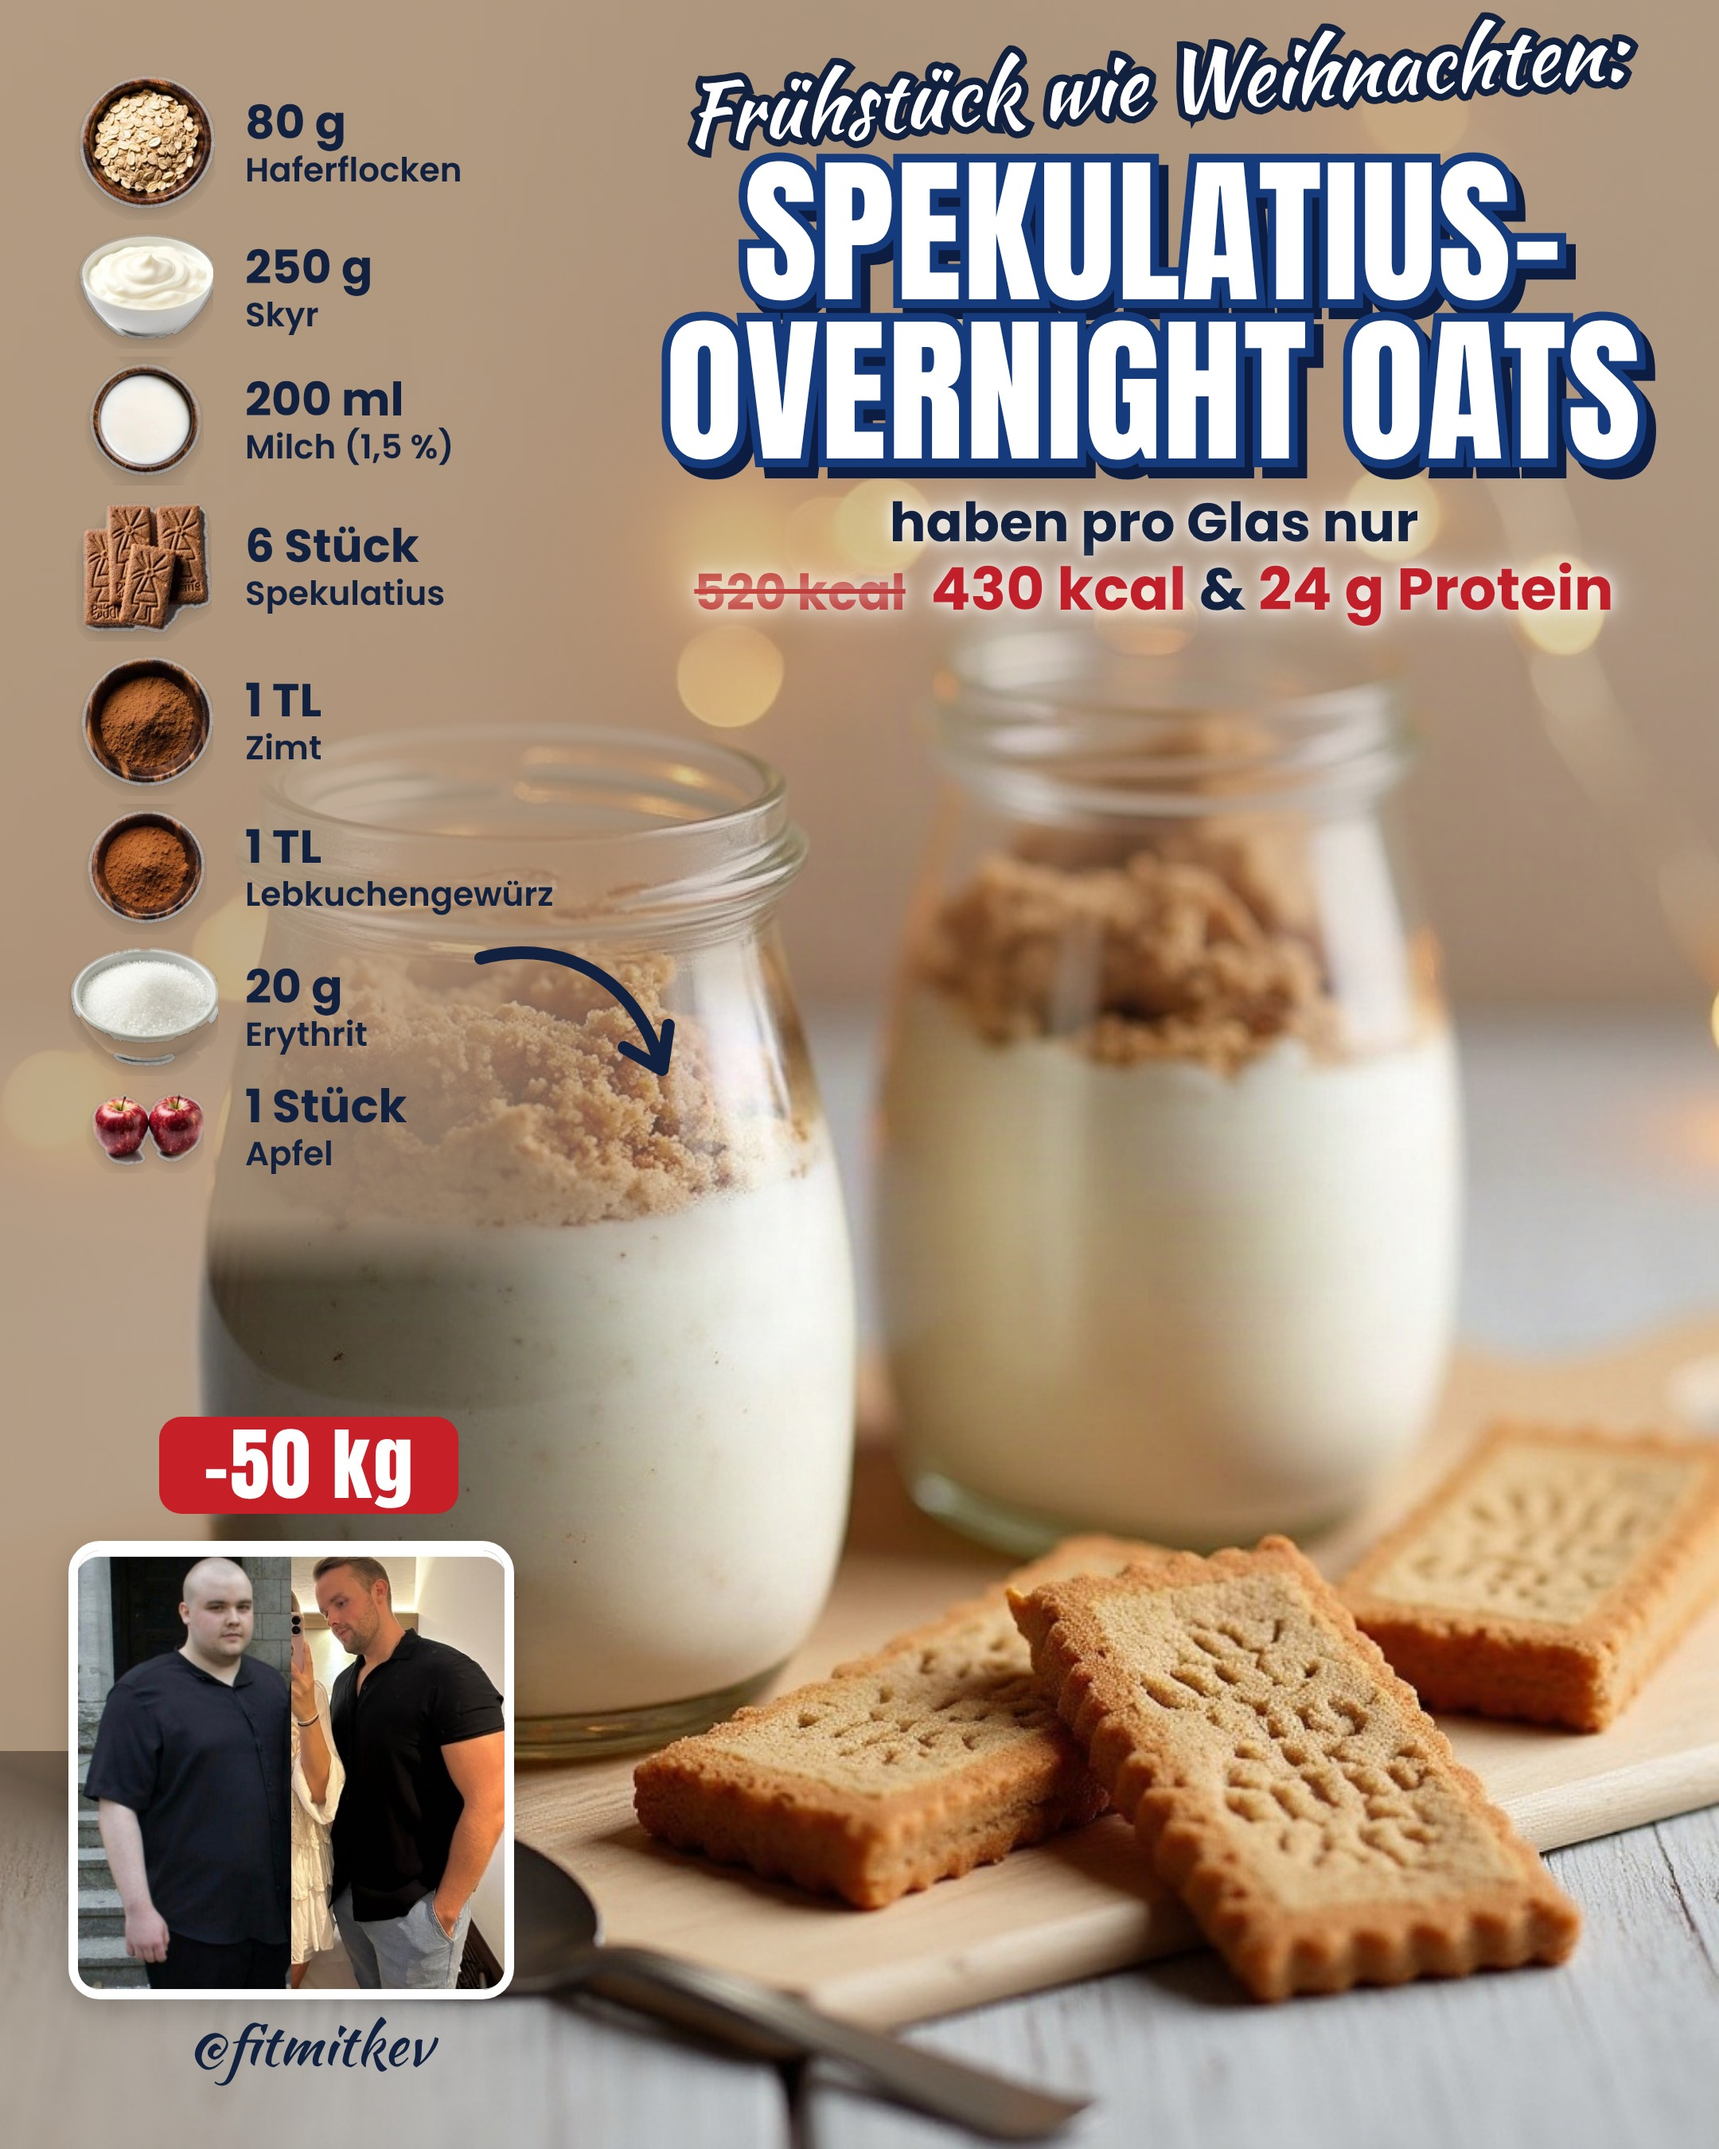
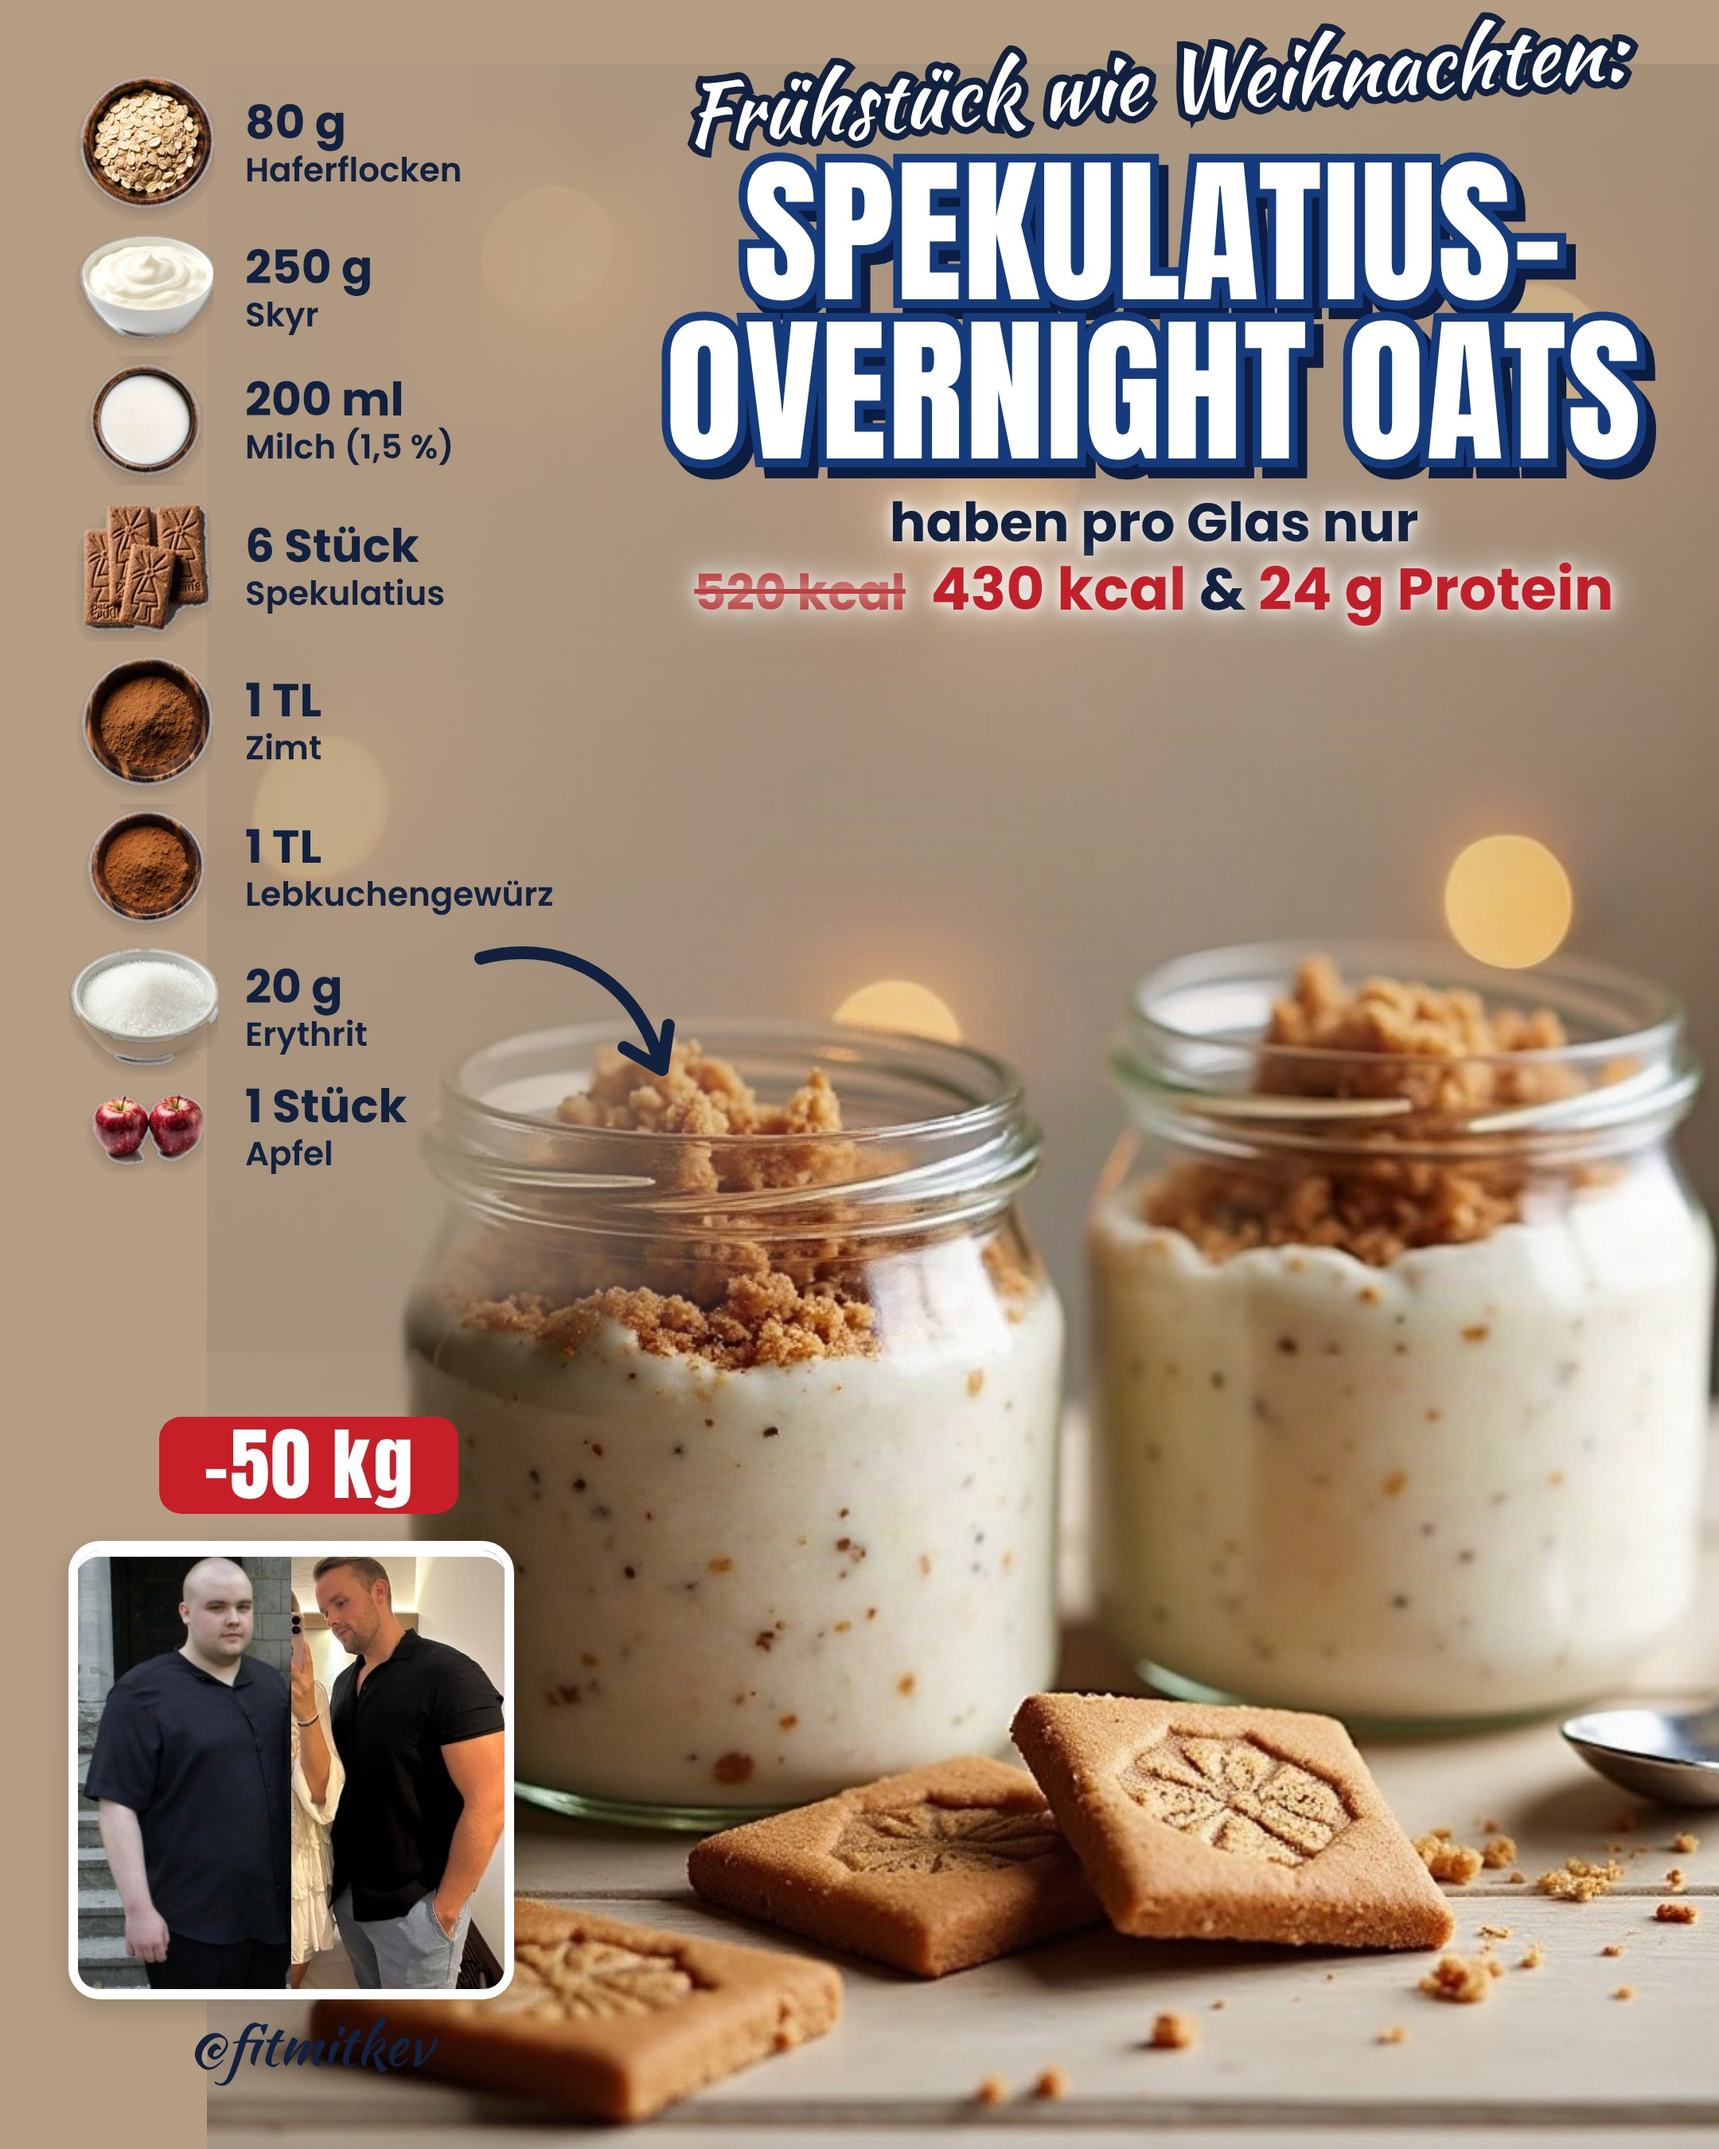
G87: Spekulatius-Oats mit realistischen Gewürzspekulatius (Seed 51, Hero verschoben)
Claude-Session: https://claude.ai/code/session_01KPVmpRePrZAkggdzf7KsfK

diff --git a/tools/g87/render87.py b/tools/g87/render87.py
@@ -13,6 +13,7 @@ TL=f"{S}/tilex/tiles_orig"
 MAP=json.load(open(f"{TL}/_map_g87.json"))
 os.makedirs(f"{D}/out",exist_ok=True)
 NAVY="#12213f"; BLUE="#163b7d"; DARK="#0d1d42"; RED="#c1202b"; BADGE="#c61f27"
+HERO_SHIFT={'SpekOats':(130,40)}   # Hero nach rechts/unten schieben, wenn das Gericht sonst unter die Kachelspalte läuft
 PLURAL={'Quarkbroetchen','ZimtschneckenPancakes','Pizzabroetchen','ApfelQuarkbaellchen','LaugenKnoten','SpekOats'}
 XMP='''<?xpacket begin="" id="W5M0MpCehiHzreSzNTczkc9d"?><x:xmpmeta xmlns:x="adobe:ns:meta/"><rdf:RDF xmlns:rdf="http://www.w3.org/1999/02/22-rdf-syntax-ns#"><rdf:Description rdf:about="" xmlns:Iptc4xmpExt="http://iptc.org/std/Iptc4xmpExt/2008-02-29/" xmlns:photoshop="http://ns.adobe.com/photoshop/1.0/" xmlns:dc="http://purl.org/dc/elements/1.1/" photoshop:Credit="Fitmitkev"><Iptc4xmpExt:DigitalSourceType>http://cv.iptc.org/newscodes/digitalsourcetype/trainedAlgorithmicMedia</Iptc4xmpExt:DigitalSourceType><dc:creator><rdf:Seq><rdf:li>Fitmitkev</rdf:li></rdf:Seq></dc:creator><dc:description><rdf:Alt><rdf:li xml:lang="x-default">Rezeptgrafik, Foto KI-generiert</rdf:li></rdf:Alt></dc:description></rdf:Description></rdf:RDF></x:xmpmeta><?xpacket end="w"?>'''
 
@@ -42,6 +43,7 @@ def board_html(r,hero,herocut):
     verb='haben' if r['key'] in PLURAL else 'hat'
     title_layers=''.join(f'<div class="{cls}">{t1}<br>{t2}</div>' for cls in ('t-sh','t-ol','t-fi'))
     hook=html.escape(r['hook'])
+    dx,dy=HERO_SHIFT.get(r['key'],(0,0)); shift=f'left:{dx}px;top:{dy}px' if (dx or dy) else ''
     return f"""<!doctype html><html><head><meta charset="utf-8"><style>
 @font-face{{font-family:A;src:url('{F}/anton/Anton-Regular.ttf')}}
 @font-face{{font-family:K;src:url('{F}/kaushanscript/KaushanScript-Regular.ttf')}}
@@ -77,7 +79,7 @@ body{{width:1080px;height:1350px;overflow:hidden;position:relative;font-family:P
 .photo{{position:absolute;left:43px;top:968px;width:280px;height:288px;border-radius:20px;border:6px solid #fff;object-fit:cover;box-shadow:0 6px 16px rgba(0,0,0,.18)}}
 .ig{{position:absolute;left:118px;top:1258px;font-family:K;font-size:36px;color:{NAVY}}}
 </style></head><body>
-<img class="hero" src="{hero}"><div class="fadeT"></div><div class="fadeL"></div><div class="fadeB"></div><img class="hero" src="{herocut}">
+<img class="hero" src="{hero}" style="{shift}"><div class="fadeT"></div><div class="fadeL"></div><div class="fadeB"></div><img class="hero" src="{herocut}" style="{shift}">
 <div class="col">{rows}</div>
 <div class="title"><div class="hookw"><div class="hookb">{hook}</div><div class="hook">{hook}</div></div>
 <div class="tw">{title_layers}</div>
